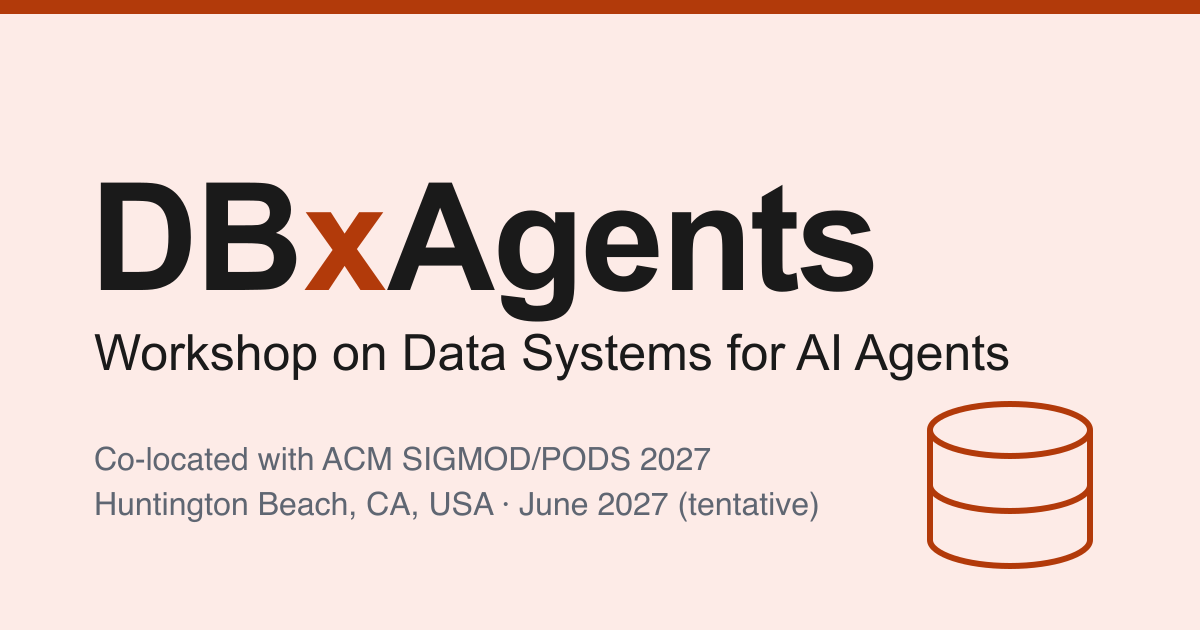
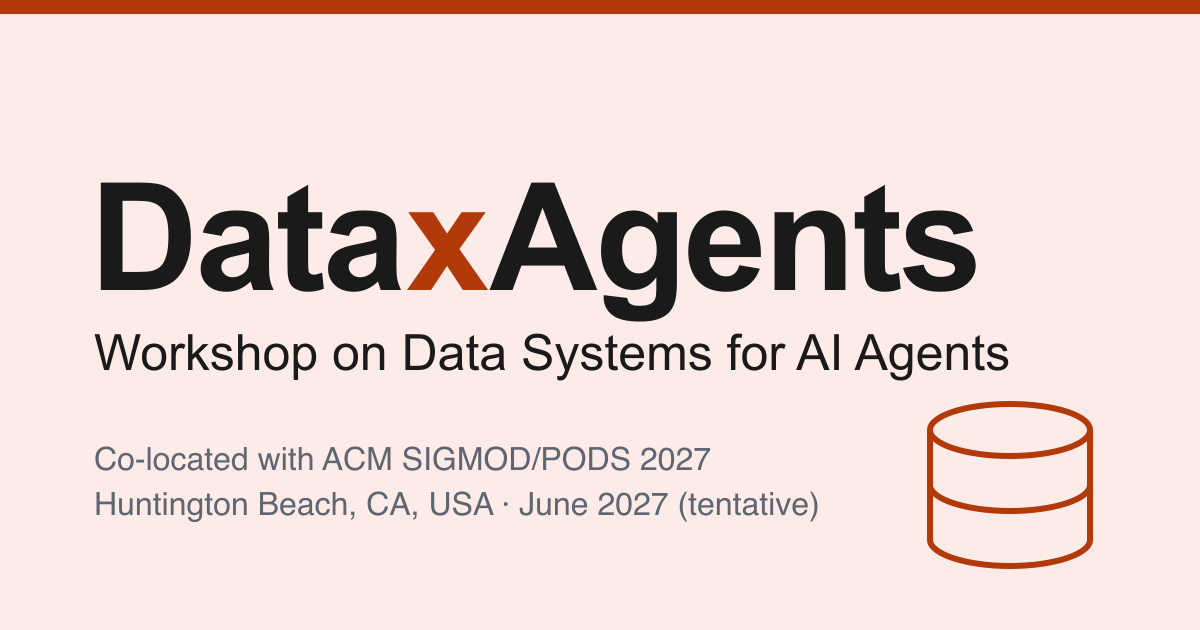
Rename DBxAgents to DataxAgents
Use the DataxAgents name everywhere (banner, titles, metadata, social
image) and the new site URL https://dataxagents.github.io.

Changed region(s): [[0.1542, 0.2714, 0.8325, 0.5127]]

diff --git a/src/styles/global.css b/src/styles/global.css
@@ -1,5 +1,5 @@
 /* =========================================================
-   DBxAgents: single site stylesheet
+   DataxAgents: single site stylesheet
    Classic academic page: one narrow serif column, the nav
    across the top, important dates below the content.
    ========================================================= */

diff --git a/README.md b/README.md
@@ -1,6 +1,6 @@
-# DBxAgents website
+# DataxAgents website
 
-Source for **https://dbxagents.github.io**, the site of *DBxAgents: Workshop on Data Systems for AI Agents* (proposed, co-located with ACM SIGMOD/PODS 2027).
+Source for **https://dataxagents.github.io**, the site of *DataxAgents: Workshop on Data Systems for AI Agents* (proposed, co-located with ACM SIGMOD/PODS 2027).
 
 Built with [Astro](https://astro.build) as a fully static site: one plain stylesheet in the style of the SIGMOD/PODS site, a few lines of inline JS, no trackers.
 
